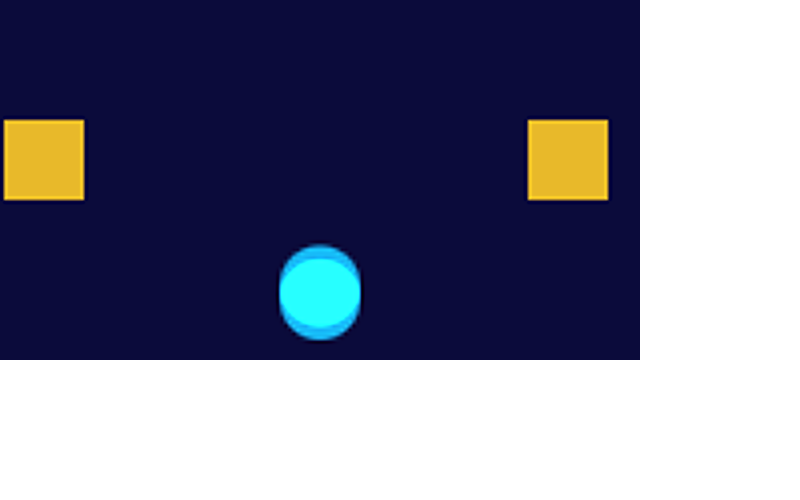
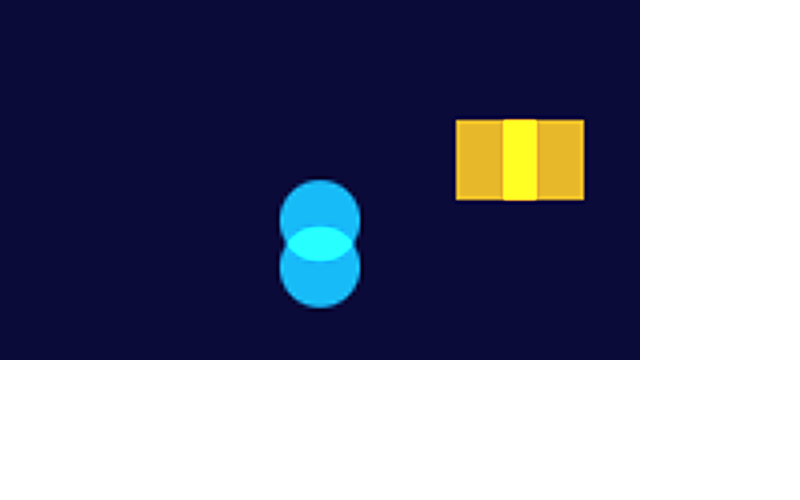
Android: redesign UI (dark, bottom bar, insets, settings sheet), Google home, inject engine into all frames, fullscreen, skip DRM video
Claude-Session: https://claude.ai/code/session_01BTuB3vdkKhMhCp7p1JrvAF

diff --git a/android/app/src/main/java/com/aib/browser/MainActivity.kt b/android/app/src/main/java/com/aib/browser/MainActivity.kt
@@ -2,12 +2,20 @@ package com.aib.browser
 
 import android.annotation.SuppressLint
 import android.app.Activity
-import android.app.AlertDialog
+import android.app.Dialog
 import android.content.Context
 import android.graphics.Bitmap
+import android.graphics.Color
+import android.graphics.drawable.GradientDrawable
 import android.os.Bundle
+import android.os.Handler
+import android.os.Looper
+import android.util.TypedValue
+import android.view.Gravity
 import android.view.KeyEvent
+import android.view.View
 import android.view.ViewGroup
+import android.view.WindowInsets
 import android.view.inputmethod.EditorInfo
 import android.webkit.WebChromeClient
 import android.webkit.WebResourceRequest
@@ -15,30 +23,53 @@ import android.webkit.WebResourceResponse
 import android.webkit.WebSettings
 import android.webkit.WebView
 import android.webkit.WebViewClient
-import android.widget.Button
 import android.widget.EditText
+import android.widget.FrameLayout
 import android.widget.LinearLayout
+import android.widget.ProgressBar
+import android.widget.ScrollView
+import android.widget.Switch
+import android.widget.TextView
+import androidx.webkit.ScriptHandler
+import androidx.webkit.WebViewCompat
+import androidx.webkit.WebViewFeature
 import org.json.JSONObject
 import java.io.FileNotFoundException
 
 private const val ASSET_HOST = "appassets.min.local"
+private const val HOME = "https://www.google.com"
+private const val BG = 0xFF0F0F0F.toInt()
+private const val SURFACE = 0xFF1F1F1F.toInt()
+private const val ACCENT = 0xFF7C5CFF.toInt()
 
 class MainActivity : Activity() {
     private lateinit var web: WebView
     private lateinit var urlBar: EditText
+    private lateinit var progress: ProgressBar
+    private lateinit var badge: TextView
+    private lateinit var content: FrameLayout
+    private var customView: View? = null
+    private var customCallback: WebChromeClient.CustomViewCallback? = null
+    private var scriptHandler: ScriptHandler? = null
+    private val ui = Handler(Looper.getMainLooper())
     private val prefs by lazy { getSharedPreferences("enhance", Context.MODE_PRIVATE) }
 
     private val toggles = linkedMapOf(
-        "enabled" to "تفعيل التحسين / Enable",
-        "neural" to "رفع الدقة العصبي / Neural SR",
-        "temporal" to "استقرار زمني / Temporal stabilise",
-        "tone" to "تباين HDR تكيفي / Adaptive tone",
-        "interp" to "توليد الإطارات / Frame interpolation (heavy)",
-        "images" to "الصور / Images"
+        "enabled" to "تفعيل التحسين على كل المواقع",
+        "neural" to "رفع الدقة العصبي (Real-ESRGAN)",
+        "tone" to "تباين HDR تكيفي",
+        "temporal" to "استقرار زمني (يقلل الوميض)",
+        "interp" to "توليد الإطارات (ثقيل)",
+        "images" to "تحسين الصور"
     )
     private val defaults = mapOf("enabled" to true, "neural" to true, "temporal" to true, "tone" to true, "interp" to false, "images" to true)
     private val targets = intArrayOf(720, 1080, 1440, 2160)
-    private val denoiseLevels = floatArrayOf(0f, 0.2f, 0.35f, 0.6f)
+    private val targetLabels = arrayOf("720p", "1080p", "2K", "4K")
+    private val denoise = floatArrayOf(0f, 0.2f, 0.35f, 0.6f)
+    private val denoiseLabels = arrayOf("بدون", "خفيف", "متوسط", "قوي")
+
+    private fun dp(v: Int) = TypedValue.applyDimension(TypedValue.COMPLEX_UNIT_DIP, v.toFloat(), resources.displayMetrics).toInt()
+    private fun pill(color: Int, r: Int = 24) = GradientDrawable().apply { setColor(color); cornerRadius = dp(r).toFloat() }
 
     private fun config(): JSONObject {
         val o = JSONObject()
@@ -49,61 +80,139 @@ class MainActivity : Activity() {
     }
 
     private fun asset(path: String): String = assets.open(path).bufferedReader().use { it.readText() }
+    private val bundle by lazy { asset("ort/ort.webgpu.min.js") + "\n;" + asset("engine.js") }
 
-    private val engineJs by lazy { asset("engine.js") }
-    private val ortJs by lazy { asset("ort/ort.webgpu.min.js") }
-
-    private fun inject(v: WebView) {
-        v.evaluateJavascript("if(!window.ort){$ortJs\n}", null)
-        v.evaluateJavascript(engineJs, null)
-        v.evaluateJavascript("window.__minEnhanceSet(${config()})", null)
+    /** Engine + ONNX Runtime injected at document start into EVERY frame (also embedded players in iframes). */
+    private fun registerScript() {
+        if (!WebViewFeature.isFeatureSupported(WebViewFeature.DOCUMENT_START_SCRIPT)) return
+        scriptHandler?.remove()
+        scriptHandler = WebViewCompat.addDocumentStartJavaScript(
+            web, "window.__minCfg0=${config()};\n$bundle", setOf("*")
+        )
     }
 
-    @SuppressLint("SetJavaScriptEnabled")
+    private fun applyConfig() {
+        registerScript()
+        web.evaluateJavascript("window.__minEnhanceSet&&window.__minEnhanceSet(${config()})", null)
+    }
+
+    @SuppressLint("SetJavaScriptEnabled", "ClickableViewAccessibility")
     override fun onCreate(savedInstanceState: Bundle?) {
         super.onCreate(savedInstanceState)
-        val root = LinearLayout(this).apply { orientation = LinearLayout.VERTICAL }
-        val bar = LinearLayout(this).apply { orientation = LinearLayout.HORIZONTAL }
-        urlBar = EditText(this).apply {
-            setSingleLine(); hint = "URL"; imeOptions = EditorInfo.IME_ACTION_GO
-            layoutParams = LinearLayout.LayoutParams(0, ViewGroup.LayoutParams.WRAP_CONTENT, 1f)
-            setOnEditorActionListener { _, _, _ -> go(text.toString()); true }
+        window.statusBarColor = BG
+        window.navigationBarColor = BG
+        window.decorView.systemUiVisibility = 0
+
+        content = FrameLayout(this).apply { setBackgroundColor(BG) }
+        val root = LinearLayout(this).apply { orientation = LinearLayout.VERTICAL; setBackgroundColor(BG) }
+
+        progress = ProgressBar(this, null, android.R.attr.progressBarStyleHorizontal).apply {
+            max = 100; visibility = View.GONE
+            progressDrawable.setTint(ACCENT)
         }
-        val back = Button(this).apply { text = "◀"; setOnClickListener { if (web.canGoBack()) web.goBack() } }
-        val enhance = Button(this).apply { text = "✨"; setOnClickListener { showSettings() } }
-        bar.addView(back); bar.addView(urlBar); bar.addView(enhance)
-        web = WebView(this)
-        root.addView(bar, ViewGroup.LayoutParams.MATCH_PARENT, ViewGroup.LayoutParams.WRAP_CONTENT)
-        root.addView(web, ViewGroup.LayoutParams.MATCH_PARENT, 0)
-        (web.layoutParams as LinearLayout.LayoutParams).weight = 1f
-        setContentView(root)
+        web = WebView(this).apply { setBackgroundColor(BG) }
+
+        // bottom bar (thumb friendly): back | address | enhance
+        val back = iconButton("‹", 30) { if (web.canGoBack()) web.goBack() }
+        urlBar = EditText(this).apply {
+            setSingleLine(); hint = "ابحث أو اكتب عنوان"; setHintTextColor(0xFF8A8A8A.toInt()); setTextColor(Color.WHITE)
+            textSize = 15f; background = pill(SURFACE, 22); setPadding(dp(16), 0, dp(16), 0)
+            imeOptions = EditorInfo.IME_ACTION_GO; textDirection = View.TEXT_DIRECTION_LTR
+            setOnEditorActionListener { _, _, _ -> go(text.toString()); clearFocus(); true }
+            setOnFocusChangeListener { _, f -> if (f) post { selectAll() } }
+        }
+        badge = TextView(this).apply {
+            text = "✨"; textSize = 20f; gravity = Gravity.CENTER; setTextColor(Color.WHITE)
+            background = pill(SURFACE, 22); setOnClickListener { showSettings() }
+        }
+        val bar = LinearLayout(this).apply {
+            orientation = LinearLayout.HORIZONTAL; gravity = Gravity.CENTER_VERTICAL
+            setBackgroundColor(BG); setPadding(dp(8), dp(6), dp(8), dp(6))
+        }
+        bar.addView(back, LinearLayout.LayoutParams(dp(44), dp(44)))
+        bar.addView(urlBar, LinearLayout.LayoutParams(0, dp(44), 1f).apply { setMargins(dp(6), 0, dp(6), 0) })
+        bar.addView(badge, LinearLayout.LayoutParams(dp(56), dp(44)))
+
+        root.addView(progress, LinearLayout.LayoutParams(ViewGroup.LayoutParams.MATCH_PARENT, dp(2)))
+        root.addView(web, LinearLayout.LayoutParams(ViewGroup.LayoutParams.MATCH_PARENT, 0, 1f))
+        root.addView(bar, LinearLayout.LayoutParams(ViewGroup.LayoutParams.MATCH_PARENT, ViewGroup.LayoutParams.WRAP_CONTENT))
+        content.addView(root, FrameLayout.LayoutParams(ViewGroup.LayoutParams.MATCH_PARENT, ViewGroup.LayoutParams.MATCH_PARENT))
+        setContentView(content)
+
+        // Android 15 draws edge-to-edge: keep content clear of the system bars
+        content.setOnApplyWindowInsetsListener { v, insets ->
+            val b = insets.getInsets(WindowInsets.Type.systemBars() or WindowInsets.Type.ime())
+            v.setPadding(b.left, b.top, b.right, b.bottom)
+            WindowInsets.CONSUMED
+        }
 
         web.settings.apply {
             javaScriptEnabled = true; domStorageEnabled = true
             mediaPlaybackRequiresUserGesture = false
             mixedContentMode = WebSettings.MIXED_CONTENT_COMPATIBILITY_MODE
+            setSupportZoom(true); builtInZoomControls = true; displayZoomControls = false
+            useWideViewPort = true; loadWithOverviewMode = true
         }
-        web.webChromeClient = WebChromeClient()
+        web.webChromeClient = object : WebChromeClient() {
+            override fun onProgressChanged(view: WebView, p: Int) {
+                progress.progress = p; progress.visibility = if (p in 1..99) View.VISIBLE else View.GONE
+            }
+            override fun onShowCustomView(view: View, cb: CustomViewCallback) { // fullscreen video
+                customView = view; customCallback = cb
+                content.addView(view, FrameLayout.LayoutParams(-1, -1))
+                content.setPadding(0, 0, 0, 0)
+                window.decorView.systemUiVisibility = View.SYSTEM_UI_FLAG_FULLSCREEN or View.SYSTEM_UI_FLAG_HIDE_NAVIGATION or View.SYSTEM_UI_FLAG_IMMERSIVE_STICKY
+                requestedOrientation = android.content.pm.ActivityInfo.SCREEN_ORIENTATION_SENSOR_LANDSCAPE
+            }
+            override fun onHideCustomView() { exitFullscreen() }
+        }
         web.webViewClient = object : WebViewClient() {
             override fun shouldInterceptRequest(view: WebView, request: WebResourceRequest): WebResourceResponse? {
                 val u = request.url
                 if (u.host != ASSET_HOST) return null
                 val path = u.path.orEmpty().trimStart('/')
+                val cors = mapOf("Access-Control-Allow-Origin" to "*")
                 return try {
                     val mime = when {
                         path.endsWith(".wasm") -> "application/wasm"
                         path.endsWith(".js") || path.endsWith(".mjs") -> "text/javascript"
                         else -> "application/octet-stream"
                     }
-                    WebResourceResponse(mime, null, 200, "OK", mapOf("Access-Control-Allow-Origin" to "*"), assets.open(path))
+                    WebResourceResponse(mime, null, 200, "OK", cors, assets.open(path))
                 } catch (e: FileNotFoundException) {
-                    WebResourceResponse("text/plain", "utf-8", 404, "Not Found", mapOf("Access-Control-Allow-Origin" to "*"), "".byteInputStream())
+                    WebResourceResponse("text/plain", "utf-8", 404, "Not Found", cors, "".byteInputStream())
                 }
             }
-            override fun onPageStarted(view: WebView, url: String, favicon: Bitmap?) { urlBar.setText(url); inject(view) }
-            override fun onPageFinished(view: WebView, url: String) { inject(view) }
+            override fun onPageStarted(view: WebView, url: String, favicon: Bitmap?) {
+                if (!urlBar.hasFocus()) urlBar.setText(url)
+                if (!WebViewFeature.isFeatureSupported(WebViewFeature.DOCUMENT_START_SCRIPT)) injectFallback()
+            }
+            override fun onPageFinished(view: WebView, url: String) {
+                if (!WebViewFeature.isFeatureSupported(WebViewFeature.DOCUMENT_START_SCRIPT)) injectFallback()
+            }
         }
-        go(intent?.dataString ?: "https://www.youtube.com")
+        registerScript()
+        pollBadge()
+        go(intent?.dataString ?: HOME)
+    }
+
+    private fun injectFallback() { // main frame only, used if document-start scripts are unsupported
+        web.evaluateJavascript("if(!window.__minEnhance){window.__minCfg0=${config()};$bundle\n}", null)
+    }
+
+    private fun iconButton(label: String, size: Int, onClick: () -> Unit) = TextView(this).apply {
+        text = label; textSize = size.toFloat(); gravity = Gravity.CENTER; setTextColor(Color.WHITE)
+        setOnClickListener { onClick() }
+    }
+
+    private fun pollBadge() { // shows ✨ with a violet ring while a video is being enhanced
+        web.evaluateJavascript("(window.__minEnhance&&window.__minEnhance.state.stats.active)||0") { v ->
+            val on = (v?.toIntOrNull() ?: 0) > 0
+            badge.background = pill(if (on) ACCENT else SURFACE, 22)
+            badge.text = if (on) "✨ ON" else "✨"
+            badge.textSize = if (on) 13f else 20f
+        }
+        ui.postDelayed({ pollBadge() }, 2000)
     }
 
     private fun go(input: String) {
@@ -116,43 +225,71 @@ class MainActivity : Activity() {
         web.loadUrl(url)
     }
 
-    private fun showSettings() {
-        val keys = toggles.keys.toList()
-        val checked = BooleanArray(keys.size) { prefs.getBoolean(keys[it], defaults[keys[it]] == true) }
-        AlertDialog.Builder(this)
-            .setTitle("رفع الدقة والتحسين العصبي")
-            .setMultiChoiceItems(keys.map { toggles[it] }.toTypedArray(), checked) { _, i, c -> checked[i] = c }
-            .setPositiveButton("الدقة / Resolution") { _, _ ->
-                keys.forEachIndexed { i, k -> prefs.edit().putBoolean(k, checked[i]).apply() }
-                showTarget()
+    private fun exitFullscreen() {
+        customView?.let { content.removeView(it) }
+        customView = null
+        customCallback?.onCustomViewHidden(); customCallback = null
+        window.decorView.systemUiVisibility = 0
+        requestedOrientation = android.content.pm.ActivityInfo.SCREEN_ORIENTATION_UNSPECIFIED
+        content.requestApplyInsets()
+    }
+
+    private fun chips(labels: Array<String>, selected: Int, onPick: (Int) -> Unit): LinearLayout {
+        val row = LinearLayout(this).apply { orientation = LinearLayout.HORIZONTAL }
+        val views = ArrayList<TextView>()
+        fun paint(sel: Int) = views.forEachIndexed { i, v ->
+            v.background = pill(if (i == sel) ACCENT else SURFACE, 18); v.setTextColor(Color.WHITE)
+        }
+        labels.forEachIndexed { i, l ->
+            val v = TextView(this).apply {
+                text = l; textSize = 14f; gravity = Gravity.CENTER; setTextColor(Color.WHITE)
+                setOnClickListener { paint(i); onPick(i) }
             }
-            .setNegativeButton("حفظ / Save") { _, _ ->
-                keys.forEachIndexed { i, k -> prefs.edit().putBoolean(k, checked[i]).apply() }
-                web.evaluateJavascript("window.__minEnhanceSet(${config()})", null)
-            }.show()
+            views.add(v)
+            row.addView(v, LinearLayout.LayoutParams(0, dp(38), 1f).apply { setMargins(dp(3), 0, dp(3), 0) })
+        }
+        paint(selected)
+        return row
     }
 
-    private fun showTarget() {
-        val labels = arrayOf("720p", "1080p", "1440p (2K)", "2160p (4K)")
-        val cur = targets.indexOf(prefs.getInt("target", 1440)).coerceAtLeast(0)
-        AlertDialog.Builder(this).setTitle("الدقة المستهدفة")
-            .setSingleChoiceItems(labels, cur) { d, i ->
-                prefs.edit().putInt("target", targets[i]).apply(); d.dismiss(); showDenoise()
-            }.show()
+    private fun label(t: String) = TextView(this).apply {
+        text = t; textSize = 13f; setTextColor(0xFF9A9A9A.toInt()); setPadding(dp(4), dp(16), dp(4), dp(6))
     }
 
-    private fun showDenoise() {
-        val labels = arrayOf("بدون", "خفيف", "متوسط", "قوي")
-        val cur = denoiseLevels.indexOfFirst { it == prefs.getFloat("denoise", 0.35f) }.coerceAtLeast(2)
-        AlertDialog.Builder(this).setTitle("إزالة الضوضاء وتكسّر الضغط")
-            .setSingleChoiceItems(labels, cur) { d, i ->
-                prefs.edit().putFloat("denoise", denoiseLevels[i]).apply(); d.dismiss()
-                web.evaluateJavascript("window.__minEnhanceSet(${config()})", null)
-            }.show()
+    private fun showSettings() {
+        val dlg = Dialog(this)
+        dlg.requestWindowFeature(android.view.Window.FEATURE_NO_TITLE)
+        val col = LinearLayout(this).apply { orientation = LinearLayout.VERTICAL; setPadding(dp(20), dp(18), dp(20), dp(18)); background = pill(BG, 24) }
+        col.addView(TextView(this).apply { text = "✨ تحسين الفيديو والصور"; textSize = 19f; setTextColor(Color.WHITE) })
+        col.addView(TextView(this).apply { text = "يعمل على جهازك بدون إنترنت إضافي"; textSize = 12f; setTextColor(0xFF9A9A9A.toInt()); setPadding(0, dp(2), 0, dp(8)) })
+        for ((k, title) in toggles) {
+            val row = LinearLayout(this).apply { orientation = LinearLayout.HORIZONTAL; gravity = Gravity.CENTER_VERTICAL; setPadding(0, dp(8), 0, dp(8)) }
+            row.addView(TextView(this).apply { text = title; textSize = 15f; setTextColor(Color.WHITE) }, LinearLayout.LayoutParams(0, ViewGroup.LayoutParams.WRAP_CONTENT, 1f))
+            row.addView(Switch(this).apply {
+                isChecked = prefs.getBoolean(k, defaults[k] == true)
+                setOnCheckedChangeListener { _, c -> prefs.edit().putBoolean(k, c).apply(); applyConfig() }
+            })
+            col.addView(row)
+        }
+        col.addView(label("الدقة المستهدفة"))
+        col.addView(chips(targetLabels, targets.indexOf(prefs.getInt("target", 1440)).coerceAtLeast(0)) { i -> prefs.edit().putInt("target", targets[i]).apply(); applyConfig() })
+        col.addView(label("إزالة الضوضاء وتكسّر الضغط"))
+        col.addView(chips(denoiseLabels, denoise.indexOfFirst { it == prefs.getFloat("denoise", 0.35f) }.coerceAtLeast(2)) { i -> prefs.edit().putFloat("denoise", denoise[i]).apply(); applyConfig() })
+        dlg.setContentView(ScrollView(this).apply { addView(col) })
+        dlg.window?.apply {
+            setBackgroundDrawable(pill(BG, 24)); setGravity(Gravity.BOTTOM)
+            setLayout(ViewGroup.LayoutParams.MATCH_PARENT, ViewGroup.LayoutParams.WRAP_CONTENT)
+        }
+        dlg.show()
     }
 
     override fun onKeyDown(keyCode: Int, event: KeyEvent?): Boolean {
-        if (keyCode == KeyEvent.KEYCODE_BACK && web.canGoBack()) { web.goBack(); return true }
+        if (keyCode == KeyEvent.KEYCODE_BACK) {
+            if (customView != null) { exitFullscreen(); return true }
+            if (web.canGoBack()) { web.goBack(); return true }
+        }
         return super.onKeyDown(keyCode, event)
     }
+
+    override fun onDestroy() { ui.removeCallbacksAndMessages(null); super.onDestroy() }
 }

diff --git a/android/app/src/main/assets/engine.js b/android/app/src/main/assets/engine.js
@@ -11,6 +11,7 @@
     enabled: true, target: 1440, sharpness: 0.6, neural: true, denoise: 0.35,
     tone: true, temporal: true, interp: false, interpNeural: true, images: true
   }
+  Object.assign(cfg, window.__minCfg0 || {})
   const state = { videos: new Map(), failed: false, nn: null, stats: { nn: 'idle', fps: 0, ms: 0 } }
 
   /* ---------------- shaders ---------------- */
@@ -264,15 +265,18 @@ void main(){
     if (h <= vh) { h = vh; w = vw }
     return [Math.max(w, 2), Math.max(h, 2)]
   }
+  function host () { return document.fullscreenElement || document.webkitFullscreenElement || document.documentElement }
+  document.addEventListener('fullscreenchange', () => state.videos.forEach(st => host().appendChild(st.canvas)))
+  document.addEventListener('webkitfullscreenchange', () => state.videos.forEach(st => host().appendChild(st.canvas)))
   function attach (video) {
-    if (state.videos.has(video) || state.failed) return
+    if (state.videos.has(video) || state.failed || video.mediaKeys) return
     const canvas = document.createElement('canvas')
     canvas.style.cssText = 'position:fixed;pointer-events:none;z-index:2147483646;display:none'
     let R
     try { R = makeRenderer(canvas) } catch (e) { R = null; console.warn('enhance: shader error', e) }
     if (!R) { state.failed = true; return }
     const st = { canvas, R, running: false, prevOpacity: video.style.opacity, errors: 0, frame: 0, tone: { lo: 0, hi: 1, contrast: 0.22, sat: 1.1, gamma: 1 }, lastT: 0, fpsEMA: 30 }
-    state.videos.set(video, st); document.documentElement.appendChild(canvas)
+    state.videos.set(video, st); host().appendChild(canvas)
     video.addEventListener('play', () => loop(video)); loop(video)
   }
   function detach (video) {
@@ -287,6 +291,7 @@ void main(){
       else setTimeout(() => requestAnimationFrame(cb), video.paused ? 250 : 16)
     }
     const tick = (now, meta) => {
+      if (video.mediaKeys) { detach(video); st.running = false; return }
       if (!state.videos.has(video) || !cfg.enabled) { st.running = false; return }
       const rect = video.getBoundingClientRect(); const vw = video.videoWidth; const vh = video.videoHeight; const dpr = window.devicePixelRatio || 1
       const wantH = Math.min(cfg.target, rect.height * dpr)
@@ -295,6 +300,7 @@ void main(){
       const [w, h] = outSize(vw, vh, rect)
       if (st.canvas.width !== w || st.canvas.height !== h) { st.canvas.width = w; st.canvas.height = h }
       const s = st.canvas.style; s.display = 'block'; s.left = rect.left + 'px'; s.top = rect.top + 'px'; s.width = rect.width + 'px'; s.height = rect.height + 'px'
+      state.stats.active = Array.from(state.videos.values()).filter(x => x.canvas.style.display === 'block').length
       try {
         st.R.resize(vw, vh); st.R.upload(video); st.frame++
         if (cfg.tone && st.frame % 6 === 1) analyseTone(st, video)
